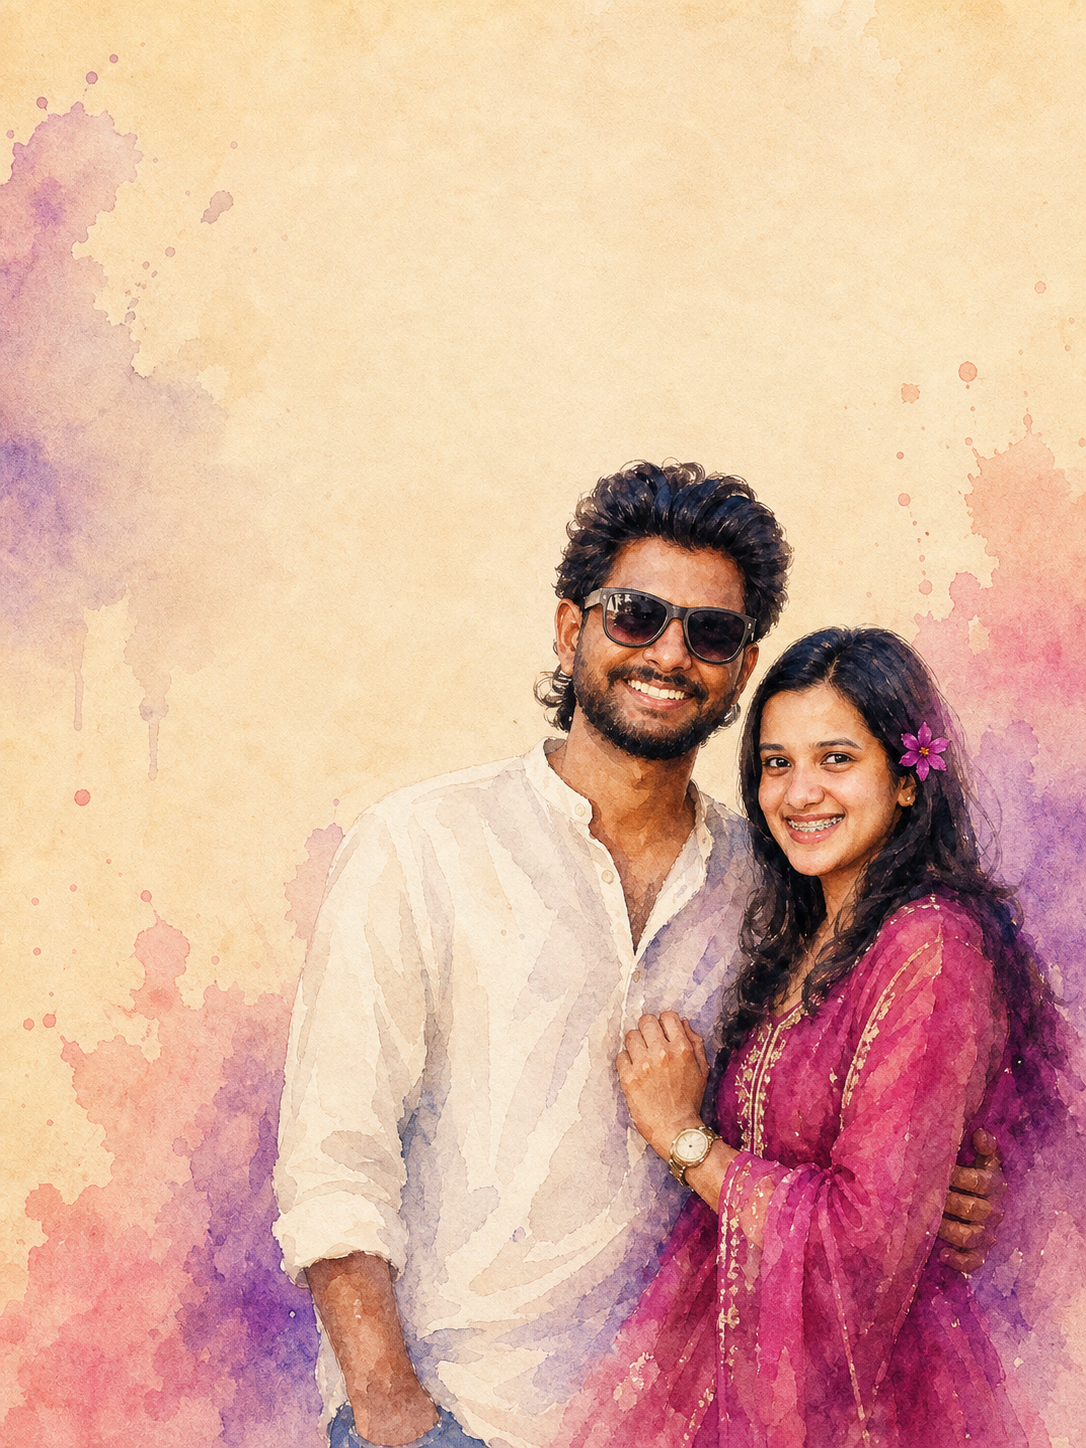
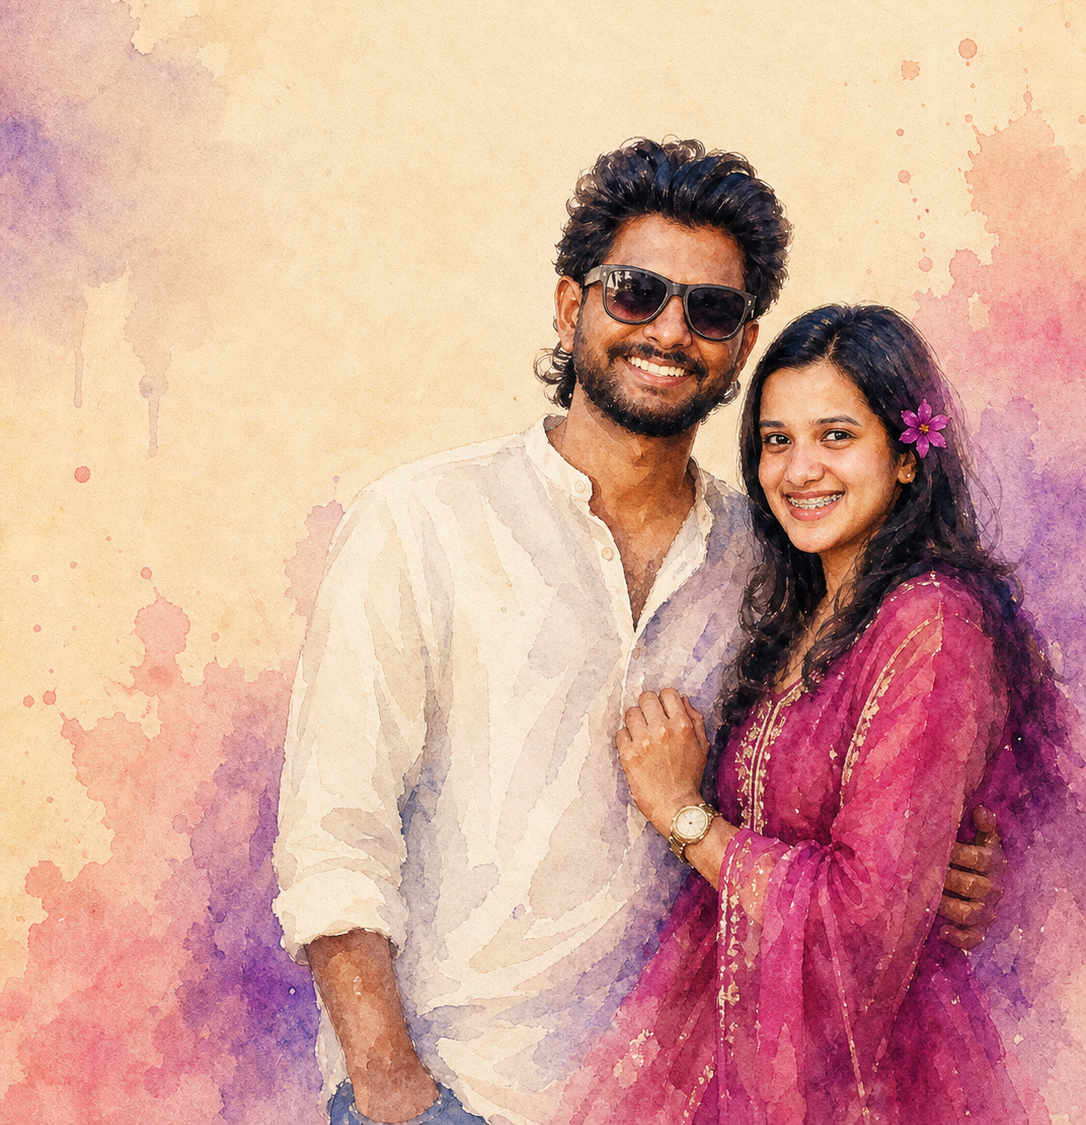
scrapbook aligned

diff --git a/components/timeline/Timeline.tsx b/components/timeline/Timeline.tsx
@@ -5,38 +5,40 @@ import { timeline } from "@/data/timeline";
 
 export default function Timeline() {
     return (
-        <section className="relative ">
+        <section className="relative py-32 md:py-40">
+            <div className="mx-auto w-full max-w-7xl px-6 md:px-10 lg:px-16">
 
-            <div className="mx-auto max-w-7xl">
+                {/* Heading */}
 
-                <div className="text-center flex">
-
-                    <p className="tracking-[6px] uppercase text-[#D97C90]">
+                <div className="mx-auto mb-28 max-w-4xl text-center">
+                    <p className="mb-4 text-sm uppercase tracking-[8px] text-[#D97C90]">
                         OUR JOURNEY
                     </p>
 
-                    <h1 className="mt-5  text-6xl">
+                    <h2 className="font-[var(--font-cormorant)] text-5xl leading-none text-[#2A2526] md:text-7xl">
                         Every Memory
                         <br />
                         Has A Heartbeat
-                    </h1>
+                    </h2>
 
+                    <p className="mx-auto mt-8 max-w-2xl text-lg leading-8 text-gray-500">
+                        Every picture holds a memory. Every memory tells our story.
+                    </p>
                 </div>
 
-                <div className="mt-28 space-y-40">
+                {/* Timeline */}
 
+                <div className="space-y-44">
                     {timeline.map((item, index) => (
                         <TimelineCard
                             key={item.id}
                             item={item}
-                            reverse={index % 2 === 1}
+                            reverse={index % 2 !== 0}
                         />
                     ))}
-
                 </div>
 
             </div>
-
         </section>
     );
 }

diff --git a/components/Hero/Hero.tsx b/components/Hero/Hero.tsx
@@ -37,7 +37,7 @@ export default function Hero() {
 
             {/* Content */}
 
-            <div className="relative z-20 flex h-full flex-col left-5 top-70 md:left-25 md:top-45">
+            <div className="relative z-20 flex italic h-full flex-col left-5 top-70 md:left-25 md:top-45">
                 <motion.p
                     initial={{ opacity: 0 }}
                     animate={{ opacity: 1 }}
@@ -59,11 +59,9 @@ export default function Hero() {
                     transition={{
                         duration: 1,
                     }}
-                    className="mt-6 max-w-6xl font-serif text-5xl md:text-8xl text-white leading-tight"
-                >
-                    Every Beautiful Story
-                    Starts With
-                    A <span className="text-amber-200">Bestfriends</span> to <span className="text-pink-500">Soulmate</span>.
+                    className="mt-6 max-w-6xl font-serif text-5xl md:text-8xl text-white italic leading-tight"
+                > Every beautiful story begins with a 
+                    <span className="text-amber-200"> Best friend</span> who becomes a <span className="text-pink-500">Soulmate</span>.
                 </motion.h1>
 
                 <motion.p
@@ -76,10 +74,10 @@ export default function Hero() {
                     transition={{
                         delay: 1,
                     }}
-                    className="mt-8 max-w-2xl text-black/70 font-serif tracking-wider uppercase text-[14px]"
+                    className="mt-2 max-w-2xl italic  text-black/70 font-serif tracking-wider uppercase text-[14px]"
                 >
                     Some memories deserve more than a place in our phones.
-                    They deserve a <span className="text-white text-3xl font-bold">home</span>.
+                    They deserve a <span className="text-white md:text-3xl text-lg font-bold">home</span>.
                 </motion.p>
 
 
@@ -87,7 +85,7 @@ export default function Hero() {
 
             {/* Scroll Indicator */}
 
-            <div className="absolute bottom-10 left-1/2 -translate-x-1/2 text-white text-6xl animate-bounce">
+            <div className="absolute bottom-10 left-1/2 -translate-x-1/2 text-white text-6xl animate-bounce hidden md:block">
                 ↓
             </div>
         </section>

diff --git a/components/scrapbook/Scrapbook.tsx b/components/scrapbook/Scrapbook.tsx
@@ -5,25 +5,24 @@ import { scrapbook } from "@/data/scrapbook";
 
 export default function Scrapbook() {
     return (
-        <section className="relative py-40">
+        <section className="flex items-center justify-center py-6">
 
-            <div className="mx-auto max-w-7xl">
+            <div className="mx-auto max-w-7xl flex gap-15 flex-col">
 
                 <div className="text-center">
 
-                    <p className="tracking-[6px] uppercase text-[#D97C90]">
+                    <p className="tracking-[6px] italic uppercase text-[#D97C90]">
                         MEMORIES
                     </p>
 
-                    <h1 className="mt-5 font-[var(--font-cormorant)] text-6xl">
-                        The Moments
-                        <br />
+                    <h1 className="mt-4 font-serif italic max-w- text-5xl">
+                        The Moments <br />
                         We Never Want To Forget
                     </h1>
 
                 </div>
 
-                <div className="mt-24 flex flex-wrap justify-center gap-14">
+                <div className="mt-3 flex flex-wrap justify-center gap-14">
 
                     {scrapbook.map((item) => (
                         <Polaroid

diff --git a/components/timeline/TimelineCard.tsx b/components/timeline/TimelineCard.tsx
@@ -38,12 +38,13 @@ export default function TimelineCard({
                 }`}
         >
             <div>
-                <div className="relative h-[450px] overflow-hidden rounded-[30px] shadow-2xl">
+                <div className="relative overflow-hidden rounded-4xl shadow-[0_30px_80px_rgba(0,0,0,.12)]">
                     <Image
                         src={item.image}
                         alt={item.title}
-                        fill
-                        className="object-cover transition duration-700 hover:scale-110"
+                        width={700}
+                        height={900}
+                        className="aspect-4/5 w-full object-cover transition duration-700 hover:scale-105"
                     />
                 </div>
             </div>

diff --git a/app/globals.css b/app/globals.css
@@ -12,13 +12,13 @@
   --card: #ffffff;
 }
 
-*,
+/* *,
 *::before,
 *::after {
   box-sizing: border-box;
   margin: 0;
   padding: 0;
-}
+} */
 
 * {
   -webkit-tap-highlight-color: transparent;

diff --git a/app/page.tsx b/app/page.tsx
@@ -7,9 +7,10 @@ export default function Home() {
     <main>
       <Hero />
 
+      <Scrapbook />
+      
       <Timeline />
 
-      <Scrapbook />
     </main>
   );
 }

diff --git a/data/scrapbook.ts b/data/scrapbook.ts
@@ -1,7 +1,7 @@
 export const scrapbook = [
   {
     id: 1,
-    image: "/images/scrapbook/1.jpg",
+    image: "/images/funny/1.jpg",
     caption: "You smiled. The sunset lost.",
     rotation: "-6deg",
   },